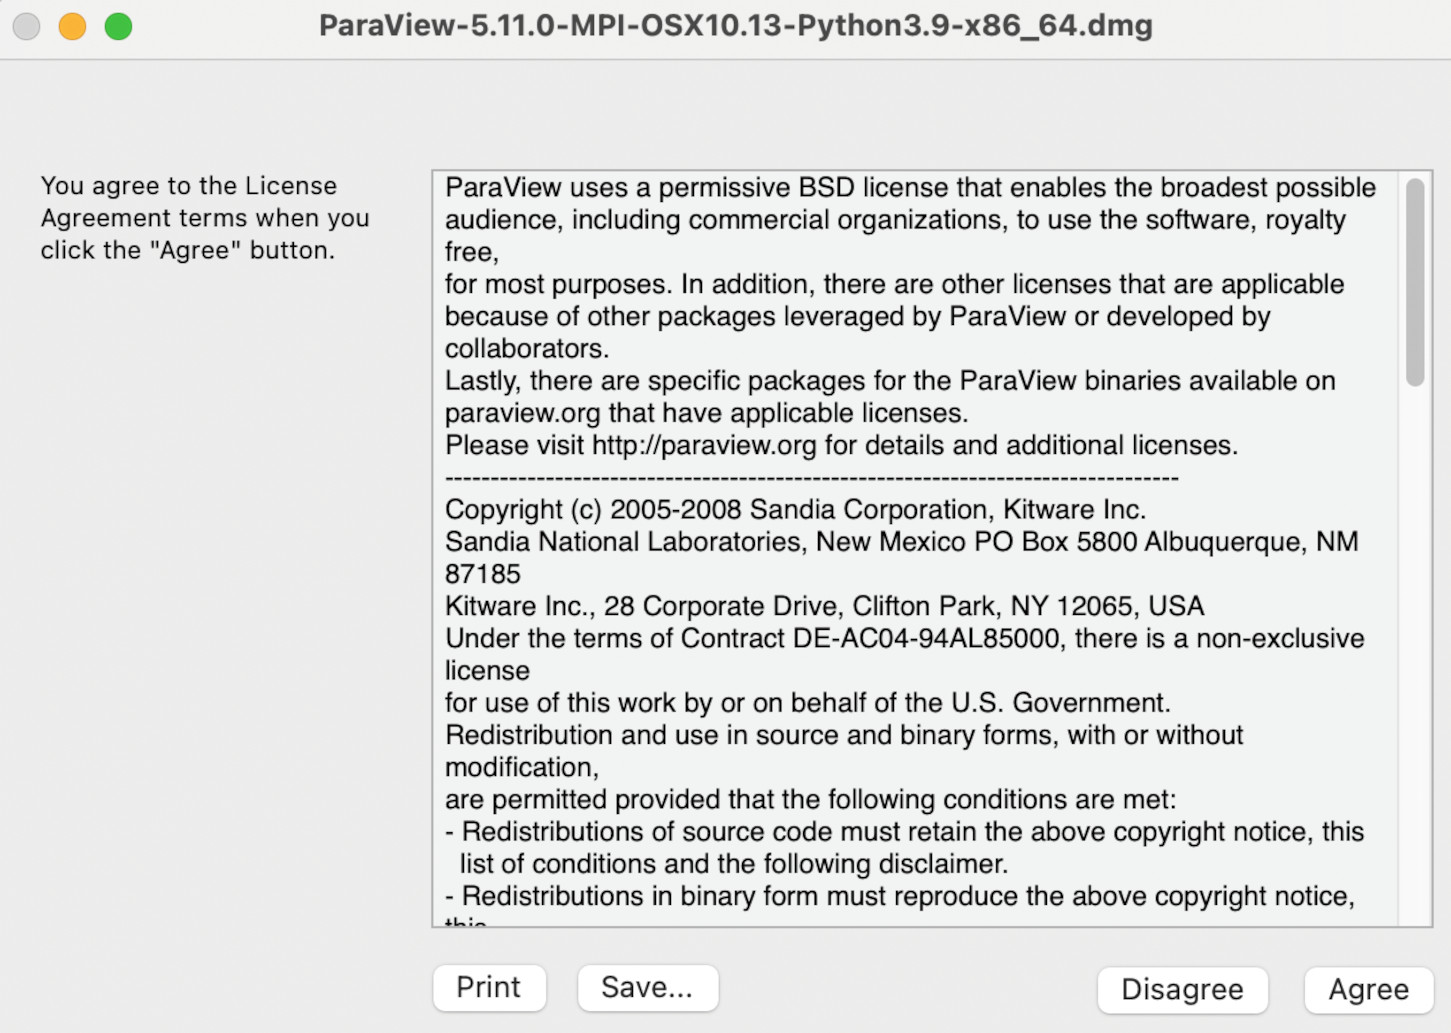
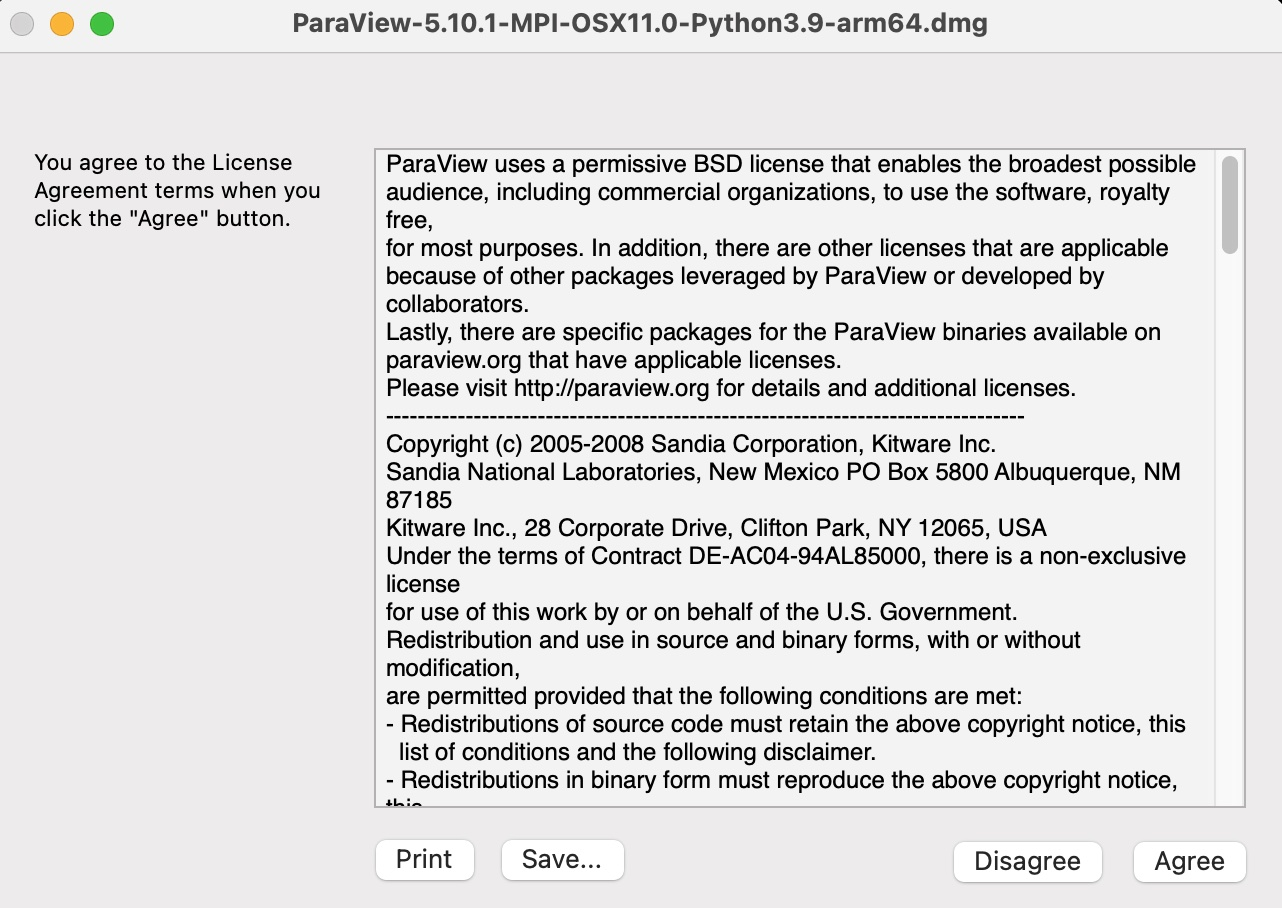
Wee push.

diff --git a/setup.md b/setup.md
@@ -20,9 +20,17 @@ The notes assume that you have extracted the ZIP file under **Desktop/**.
 
 ## Downloading Paraview
 
-To download Paraview to your local machine, go to <a href="https://www.paraview.org/download" target="_blank">www.paraview.org/download</a>. It should you a web page similar to that below.
+> ## Paraview v5.10
+> We will be using **Paraview v5.10** for this tutorial. You can download other
+> versions, but their behaviour may be different from what you see here.
+> The download links here are for v5.10 only.
+>
+{: .callout}
 
-<img src="fig/paraview-download.jpg" width="75%" alt="Paraview MacOS download page">
+
+To download Paraview to your local machine, go to <a href="https://www.paraview.org/download/?version=v5.10" target="_blank">www.paraview.org/download/?version=v5.10</a>. You should see a web page similar to this:
+
+<img src="fig/paraview-download.jpg" width="90%" alt="Paraview MacOS download page">
 
 The website should automatically select the correct operating system (OS) for
 you, ie. Windows, MacOS or Linux. Each OS has a slightly different installation
@@ -45,7 +53,7 @@ On MacOS, you will need to know which type of processor you have for Paraview.
 If you click on the Apple menu on the top left, and then click on **About
 This Mac**, you should see the following dialogue window:
 
-<img src="fig/about-this-mac.jpg" width="25%" alt="Apple menu">
+<img src="fig/about-this-mac.jpg" width="35%" alt="Apple menu">
 
 Next to **Chip** you can see the type of CPU highlighted. This will either
 be Intel, M1 or M2 (eg. ARM). Now you can download the appropriate version
@@ -58,16 +66,15 @@ Once you have the correct `.dmg` file (MacOS) or `.msi` file (Windows),
 click on it and follow the instructions. You should first see a end-user
 agreement:
 
-<img src="fig/paraview-agreement.jpg" width="60%" alt="Paraview agreement">
+<img src="fig/paraview-agreement.jpg" width="65%" alt="Paraview agreement">
 
-Click on 'Agree' then let the installation continue. On MacOS, you may be
+Click on **Agree** then let the installation continue. On MacOS, you may be
 prompted to drag Paraview into the Applications folder:
 
-<img src="fig/paraview-to-applications.jpg" width="35%" alt="Paraview application folder drag">
+<img src="fig/paraview-to-applications.jpg" width="55%" alt="Paraview application folder drag">
 
 Drag the Paraview icon into the Applications folder. Paraview should now be
 installed.
-
 
 
 {% include links.md %}

diff --git a/_episodes/01-introduction.md b/_episodes/01-introduction.md
@@ -12,7 +12,7 @@ keypoints:
 - "It is available for Windows, MacOS and Linux"
 ---
 
-## Summary
+## Paraview and Visualization
 
 Paraview is an open-source science/data visualization and data analysis
 package developed by <a href="https://www.kitware.com">Kitware</a>, that
@@ -20,7 +20,19 @@ is designed for interactive and batch use within many domains and
 disciplines, such as engineering, computational fluid dynamics, medical
 science, material science and sensor data.
 
-## What Paraview does
+But what is **visualization**? Visualization is a powerful tool for displaying
+at complex, multi-dimensional data in a way that is easier to understand.
+Below are some examples.
+
+![Examples of visualization]({{ page.root }}/fig/visualisation-examples.jpg){: width="95%" }
+
+Paraview is capable of doing visualizations like you can see above - in fact,
+it was used to produce some of them. With practice, you can too. This
+lesson will help you get to grips with the basics of Paraview, and set you
+on the road to creating your own visualiations.
+
+
+## How Paraview can be run
 
 Paraview can be run straight from a desktop, reading data in directly from
 storage:
